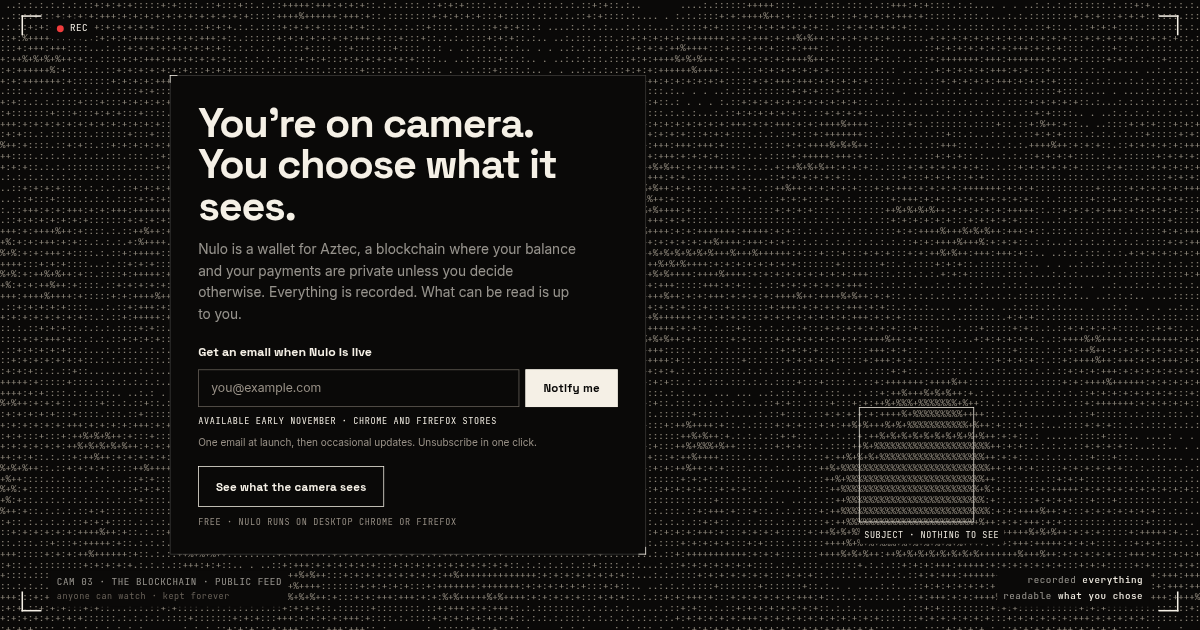
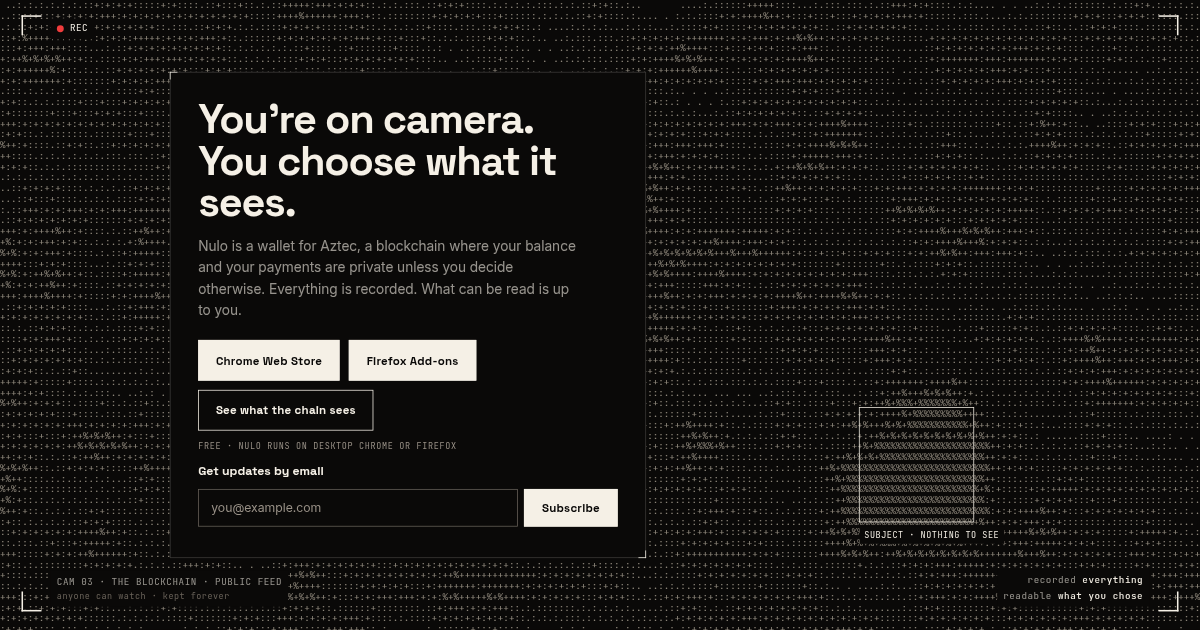
feat(landing): the closing row's two small lines stack, and og.png shows the new hero

diff --git a/apps/landing/src/styles/page.css b/apps/landing/src/styles/page.css
@@ -196,6 +196,11 @@ footer {
 	text-underline-offset: 3px;
 }
 
+/* Two small lines side by side in one row read as one sentence; the second starts its own line. */
+.cta small + small {
+	flex-basis: 100%;
+}
+
 .bar {
 	position: sticky;
 	top: 0;

diff --git a/implementations-plan/landing-launch-1/plan.md b/implementations-plan/landing-launch-1/plan.md
@@ -87,7 +87,7 @@ Every surface below changes; the "ships now" column is the proposal the draft PR
 2. Edit the three pages, `install.ts`'s comment and the README as the UI impact table says. Run the tests green.
 - **Validation gate**: `bun run --cwd apps/landing test` (0 failed; the markup and copy cases red before step 2 and green after; the Terms pin passes at base, a drift guard); `bun run --cwd apps/landing typecheck`; `bun run lint`; `bun run typecheck:all`; `bun run test:all`; `bun test scripts/release/store-copy-run.test.ts`. All exit 0. Layers: lint, typecheck, unit.
 
-### Phase 3: after-captures, browser check, og.png ✗
+### Phase 3: after-captures, browser check, og.png ✓
 1. Build the head (`bun run --cwd apps/landing build`). Run `bun ~/.cache/nulo-backlog/landing-launch-1/capture.ts <worktree> after <out> --check --og apps/landing/public/og.png`: it claims a port, serves `vite preview` in its own process group, drives Puppeteer's Chrome, and stops both at exit.
 2. It captures Phase 1's views, plus Chrome and Firefox user agents at 1280 px, a Chrome user agent at 390 px and the no-script state at both widths. Then run `bun ~/.cache/nulo-backlog/landing-launch-1/capture.ts <worktree> after-firefox <out> --check --firefox`: the same checks in the e2e suite's pinned Firefox (`E2E_FIREFOX_REVISION`, 158.0 at base), which proves real Firefox detection in the detected desktop state. Record each browser's version.
 3. Assert, per state: the visible store links, labels and hrefs per block on both pages; on every desktop state and the 390 px Chrome state, the Tab order on home equals the expected list (nav → store link(s) → ghost → also-on, detected only → field → `Subscribe`), so a hidden button never takes a stop; in every fallback state, the nav link lands on `#get` (home) or `/#get` (How Aztec works) with the heading below the sticky bar; no console or CSP error on the three pages; no horizontal overflow at 390 px; at 1280 px the hero plate stays inside the hero and clear of the REC and CAM labels, also with the form's error line shown (a submit against `vite preview`, which runs no Worker, answers the retry error).
@@ -103,6 +103,7 @@ Every surface below changes; the "ships now" column is the proposal the draft PR
 - D5. Footer store links stay out (the brief's "no other change"); OA-5 offers them.
 - D6. `install.ts`'s comment returns to #49's final wording (`index.html` carries the same URLs for visitors without JavaScript); `README.md:15` says the same.
 - D7. The Firefox listing's id is checked once against AMO's public API (guid `wallet@nulo.sh`) and the result goes in the PR body; no code, as the Chrome id already has its pin.
+- D8. Deviation found by the captures: in `#get` the store line and the builder line, two `small`s in one flex row, ran together; one rule in `page.css` (`.cta small + small { flex-basis: 100%; }`) starts the second on its own line. Shown in the PR's captures.
 - Rejected: dropping `typecheck:all` and `test:all` from the gate as more than a landing diff needs (Opus); the common brief makes them every phase's layers.
 - A11y, decided under the owner's 2026-10-19 delegation: the store actions are links named by the store or "Add to <browser>"; `hidden` takes a narrowed button out of the Tab order and the accessibility tree; the other store stays reachable through the "also on" text link in both blocks; DOM order is the visual order; the 2 px accent ring of `overrides.css:40-44` covers the links; no positive `tabindex`.
 

diff --git a/implementations-plan/landing-launch-1/lessons/phase-3.md b/implementations-plan/landing-launch-1/lessons/phase-3.md
@@ -1,0 +1,8 @@
+# Phase 3: captures, browser check, og.png
+
+- First after-capture: in `#get`, the store line and the builder line ("Building on Aztec V6? …") are two `small`s in one flex row and ran together into one line in the detected state. Fixed with one rule, `.cta small + small { flex-basis: 100%; }`: the second small starts its own line (ledger D8). Recaptured.
+- Chrome 155.0.8059.79 (Puppeteer's), `ALL ASSERTIONS PASSED` over desktop, phone, Chrome, Firefox and Chrome-at-390 user agents, both no-script states: exact Tab orders, the error-state plate inside the 820 px hero and clear of REC and CAM (fallback plate 142.7 to 807.3 px with the error line), both pages' fallback nav landing on `#get` with the heading at 120 px (desktop) and 101 px (phone) under the 65 px bar, no console error on the three pages, no overflow at 390 px. No hero height change was needed (OA-7).
+- Firefox 158.0 (the suite's pin, real detection): `ALL ASSERTIONS PASSED` in the detected desktop state. Puppeteer's Firefox has no media emulation, so its frames are not reduced-motion.
+- Narrowing after first paint moves the centred plate: its top is 158.5 px in the fallback and 191.2 px when detected, 33 px (Good enough).
+- Light and dark captures hash-equal at 1280 and 390 px, top and `#get`, before and after.
+- `og.png` recaptured from the 820 px hero at a 1562 px viewport: 1200 × 630, chunks `IHDR`, `IDAT`, `IEND`, 135,980 bytes. The old one still showed the hero of two changes ago ("See what the camera sees", the hero's small print).

diff --git a/implementations-plan/landing-launch-1/STATUS.md b/implementations-plan/landing-launch-1/STATUS.md
@@ -6,3 +6,4 @@
 - 2026-11-02: Codex round 1 conditional approve, Opus leg conditional approve; all adopted but one (ledger); OA-7 to OA-9 added. Final fresh Codex pass sent.
 - 2026-11-02: final fresh Codex pass approve (after one resume). Plan approved under auto-continue.
 - 2026-11-02: Phase 2 gate green: landing tests 146 passed (11 new or changed cases red at base first), landing typecheck, lint, typecheck:all, test:all, store-copy-run.test.ts all exit 0.
+- 2026-11-02: Phase 3 green: Chrome 155 and Firefox 158 checks ALL ASSERTIONS PASSED; og.png recaptured (1200x630, IHDR/IDAT/IEND); one CSS rule added (D8).
